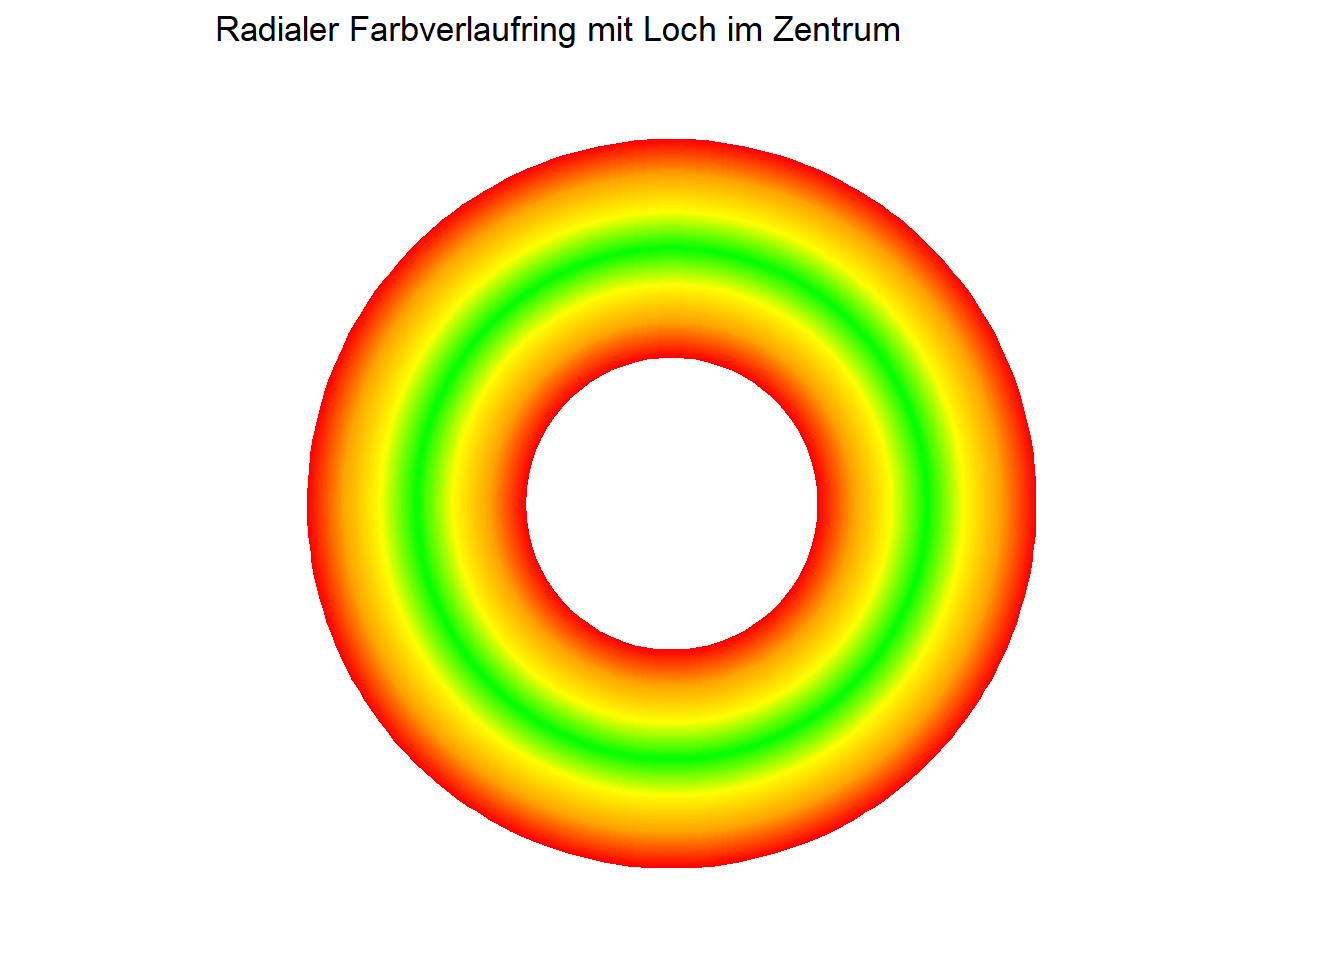
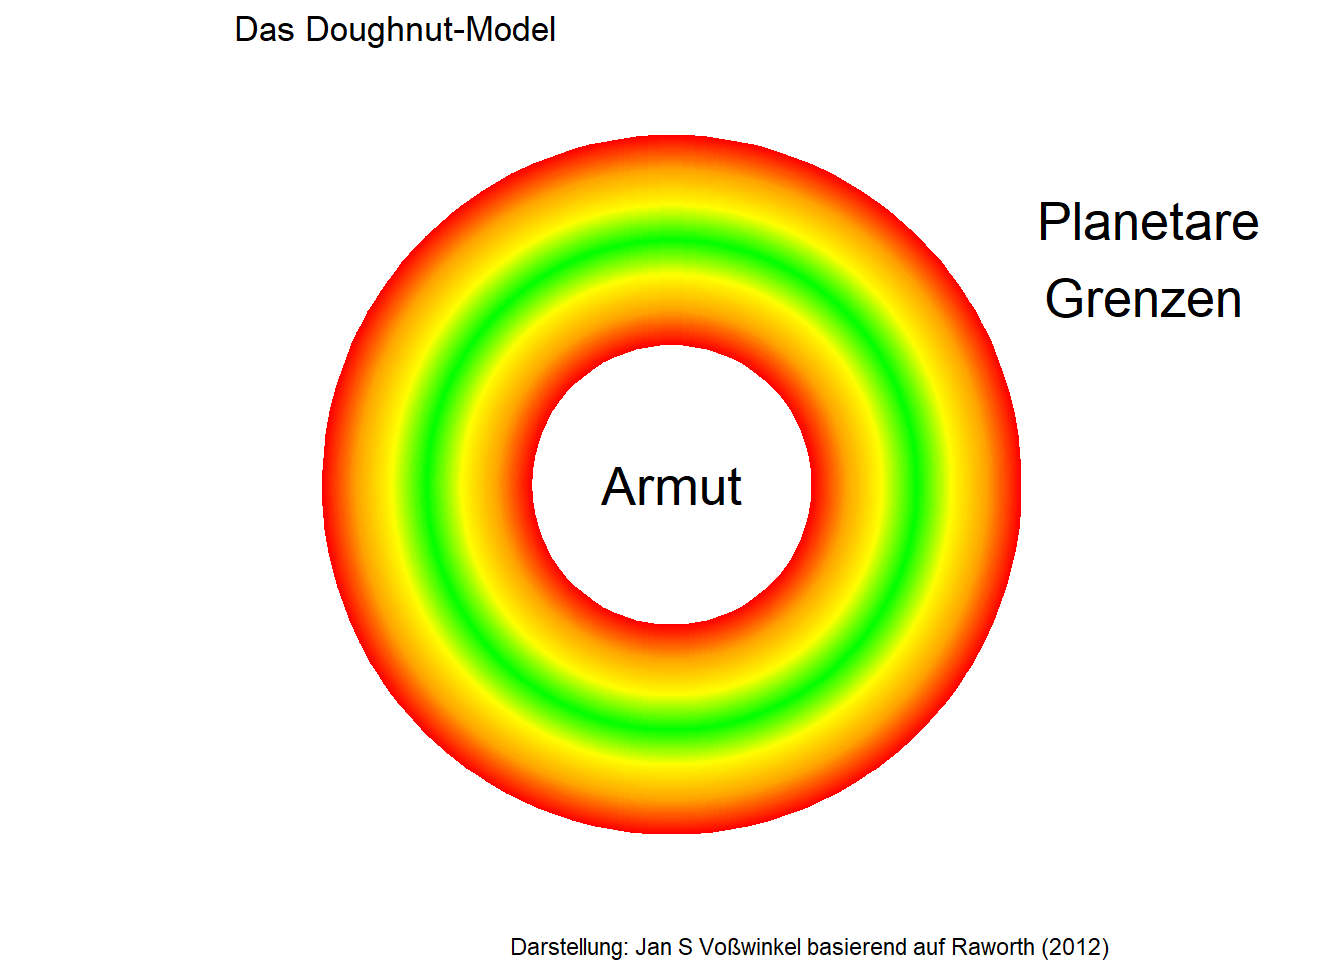
Effizienz

diff --git a/docs/donut.html b/docs/donut.html
@@ -7,7 +7,7 @@
 <meta name="viewport" content="width=device-width, initial-scale=1.0, user-scalable=yes">
 
 
-<title>3&nbsp; Das Donut-Modell – Effiziente Nutzung knapper Ressourcen</title>
+<title>3&nbsp; Das Doughnut-Modell – Effiziente Nutzung knapper Ressourcen</title>
 <style>
 code{white-space: pre-wrap;}
 span.smallcaps{font-variant: small-caps;}
@@ -117,7 +117,7 @@ pre > code.sourceCode > span > a:first-child::before { text-decoration: underlin
       <button type="button" class="quarto-btn-toggle btn" data-bs-toggle="collapse" role="button" data-bs-target=".quarto-sidebar-collapse-item" aria-controls="quarto-sidebar" aria-expanded="false" aria-label="Toggle sidebar navigation" onclick="if (window.quartoToggleHeadroom) { window.quartoToggleHeadroom(); }">
         <i class="bi bi-layout-text-sidebar-reverse"></i>
       </button>
-        <nav class="quarto-page-breadcrumbs" aria-label="breadcrumb"><ol class="breadcrumb"><li class="breadcrumb-item"><a href="./donut.html"><span class="chapter-number">3</span>&nbsp; <span class="chapter-title">Das Donut-Modell</span></a></li></ol></nav>
+        <nav class="quarto-page-breadcrumbs" aria-label="breadcrumb"><ol class="breadcrumb"><li class="breadcrumb-item"><a href="./donut.html"><span class="chapter-number">3</span>&nbsp; <span class="chapter-title">Das Doughnut-Modell</span></a></li></ol></nav>
         <a class="flex-grow-1" role="navigation" data-bs-toggle="collapse" data-bs-target=".quarto-sidebar-collapse-item" aria-controls="quarto-sidebar" aria-expanded="false" aria-label="Toggle sidebar navigation" onclick="if (window.quartoToggleHeadroom) { window.quartoToggleHeadroom(); }">      
         </a>
       <button type="button" class="btn quarto-search-button" aria-label="Search" onclick="window.quartoOpenSearch();">
@@ -166,7 +166,7 @@ pre > code.sourceCode > span > a:first-child::before { text-decoration: underlin
         <li class="sidebar-item">
   <div class="sidebar-item-container"> 
   <a href="./donut.html" class="sidebar-item-text sidebar-link active">
- <span class="menu-text"><span class="chapter-number">3</span>&nbsp; <span class="chapter-title">Das Donut-Modell</span></span></a>
+ <span class="menu-text"><span class="chapter-number">3</span>&nbsp; <span class="chapter-title">Das Doughnut-Modell</span></span></a>
   </div>
 </li>
         <li class="sidebar-item">
@@ -240,15 +240,23 @@ pre > code.sourceCode > span > a:first-child::before { text-decoration: underlin
 </nav>
 <div id="quarto-sidebar-glass" class="quarto-sidebar-collapse-item" data-bs-toggle="collapse" data-bs-target=".quarto-sidebar-collapse-item"></div>
 <!-- margin-sidebar -->
-    <div id="quarto-margin-sidebar" class="sidebar margin-sidebar zindex-bottom">
-        
+    <div id="quarto-margin-sidebar" class="sidebar margin-sidebar">
+        <nav id="TOC" role="doc-toc" class="toc-active">
+    <h2 id="toc-title">Überblick</h2>
+   
+  <ul>
+  <li><a href="#grundmodell" id="toc-grundmodell" class="nav-link active" data-scroll-target="#grundmodell"><span class="header-section-number">3.1</span> Grundmodell</a></li>
+  <li><a href="#entwicklung-in-der-zeit-statische-betrachtung" id="toc-entwicklung-in-der-zeit-statische-betrachtung" class="nav-link" data-scroll-target="#entwicklung-in-der-zeit-statische-betrachtung"><span class="header-section-number">3.2</span> Entwicklung in der Zeit: Statische Betrachtung</a></li>
+  <li><a href="#entwickung-in-der-zeit-dynamischer-doughnut" id="toc-entwickung-in-der-zeit-dynamischer-doughnut" class="nav-link" data-scroll-target="#entwickung-in-der-zeit-dynamischer-doughnut"><span class="header-section-number">3.3</span> Entwickung in der Zeit: Dynamischer Doughnut</a></li>
+  </ul>
+</nav>
     </div>
 <!-- main -->
 <main class="content" id="quarto-document-content">
 
 <header id="title-block-header" class="quarto-title-block default">
 <div class="quarto-title">
-<h1 class="title"><span class="chapter-number">3</span>&nbsp; <span class="chapter-title">Das Donut-Modell</span></h1>
+<h1 class="title"><span class="chapter-number">3</span>&nbsp; <span class="chapter-title">Das Doughnut-Modell</span></h1>
 </div>
 
 
@@ -265,6 +273,8 @@ pre > code.sourceCode > span > a:first-child::before { text-decoration: underlin
 </header>
 
 
+<section id="grundmodell" class="level2" data-number="3.1">
+<h2 data-number="3.1" class="anchored" data-anchor-id="grundmodell"><span class="header-section-number">3.1</span> Grundmodell</h2>
 <div class="cell">
 <details class="code-fold">
 <summary>Code</summary>
@@ -294,19 +304,26 @@ pre > code.sourceCode > span > a:first-child::before { text-decoration: underlin
 <span id="cb1-24"><a href="#cb1-24" aria-hidden="true" tabindex="-1"></a>    <span class="at">ymin =</span> ymin, <span class="at">ymax =</span> ymax</span>
 <span id="cb1-25"><a href="#cb1-25" aria-hidden="true" tabindex="-1"></a>  ), <span class="at">color =</span> <span class="cn">NA</span>) <span class="sc">+</span></span>
 <span id="cb1-26"><a href="#cb1-26" aria-hidden="true" tabindex="-1"></a>  <span class="fu">scale_fill_identity</span>() <span class="sc">+</span></span>
-<span id="cb1-27"><a href="#cb1-27" aria-hidden="true" tabindex="-1"></a>  <span class="fu">coord_polar</span>(<span class="at">theta =</span> <span class="st">"y"</span>) <span class="sc">+</span></span>
+<span id="cb1-27"><a href="#cb1-27" aria-hidden="true" tabindex="-1"></a>  <span class="fu">coord_polar</span>(<span class="at">theta =</span> <span class="st">"y"</span>, <span class="at">clip=</span><span class="st">"off"</span> ) <span class="sc">+</span></span>
 <span id="cb1-28"><a href="#cb1-28" aria-hidden="true" tabindex="-1"></a>  <span class="fu">xlim</span>(<span class="fu">c</span>(<span class="fl">2.8</span>, <span class="fl">3.3</span>)) <span class="sc">+</span> <span class="co"># mit oder ohne Loch?</span></span>
 <span id="cb1-29"><a href="#cb1-29" aria-hidden="true" tabindex="-1"></a>  <span class="fu">theme_void</span>() <span class="sc">+</span></span>
-<span id="cb1-30"><a href="#cb1-30" aria-hidden="true" tabindex="-1"></a>  <span class="fu">labs</span>(<span class="at">title =</span> <span class="st">"Radialer Farbverlaufring mit Loch im Zentrum"</span>)</span></code><button title="Copy to Clipboard" class="code-copy-button"><i class="bi"></i></button></pre></div>
+<span id="cb1-30"><a href="#cb1-30" aria-hidden="true" tabindex="-1"></a>  <span class="fu">labs</span>(<span class="at">title =</span> <span class="st">"Das Doughnut-Model"</span>,</span>
+<span id="cb1-31"><a href="#cb1-31" aria-hidden="true" tabindex="-1"></a>       <span class="at">caption=</span> <span class="st">"Darstellung: Jan S Voßwinkel basierend auf Raworth (2012)"</span>) <span class="sc">+</span></span>
+<span id="cb1-32"><a href="#cb1-32" aria-hidden="true" tabindex="-1"></a>  <span class="fu">annotate</span>(<span class="st">"text"</span>, <span class="at">x =</span> <span class="fl">2.8</span>, <span class="at">y =</span> <span class="fl">0.5</span>, <span class="at">label =</span> <span class="st">"Armut"</span>, <span class="at">size =</span> <span class="dv">7</span>) <span class="sc">+</span> <span class="co"># Added text annotation</span></span>
+<span id="cb1-33"><a href="#cb1-33" aria-hidden="true" tabindex="-1"></a>  <span class="fu">annotate</span>(<span class="st">"text"</span>, <span class="at">x =</span> <span class="fl">3.2</span>, <span class="at">y =</span> <span class="fl">0.1</span>, <span class="at">label =</span> <span class="st">"Planetare</span><span class="sc">\n</span><span class="st"> Grenzen"</span>, <span class="at">size =</span> <span class="dv">7</span>, <span class="at">hjust =</span> <span class="sc">-</span>.<span class="dv">9</span>) <span class="co"># Adjusted text annotation position and</span></span></code><button title="Copy to Clipboard" class="code-copy-button"><i class="bi"></i></button></pre></div>
 </details>
 <div class="cell-output-display">
-<div>
+<div class="quarto-figure quarto-figure-center">
 <figure class="figure">
-<p><img src="donut_files/figure-html/unnamed-chunk-1-1.png" class="img-fluid figure-img" width="672"></p>
+<p><a href="Doughnut"><img src="donut_files/figure-html/unnamed-chunk-1-1.png" class="img-fluid figure-img" width="672"></a></p>
+<figcaption>Der Doughnut</figcaption>
 </figure>
 </div>
 </div>
 </div>
+</section>
+<section id="entwicklung-in-der-zeit-statische-betrachtung" class="level2" data-number="3.2">
+<h2 data-number="3.2" class="anchored" data-anchor-id="entwicklung-in-der-zeit-statische-betrachtung"><span class="header-section-number">3.2</span> Entwicklung in der Zeit: Statische Betrachtung</h2>
 <div class="cell">
 <details class="code-fold">
 <summary>Code</summary>
@@ -364,13 +381,17 @@ pre > code.sourceCode > span > a:first-child::before { text-decoration: underlin
 <span id="cb2-52"><a href="#cb2-52" aria-hidden="true" tabindex="-1"></a>  )</span></code><button title="Copy to Clipboard" class="code-copy-button"><i class="bi"></i></button></pre></div>
 </details>
 <div class="cell-output-display">
-<div>
+<div class="quarto-figure quarto-figure-center">
 <figure class="figure">
 <p><img src="donut_files/figure-html/unnamed-chunk-2-1.png" class="img-fluid figure-img" width="672"></p>
+<figcaption>Entwicklung im statischen Doughnut</figcaption>
 </figure>
 </div>
 </div>
 </div>
+</section>
+<section id="entwickung-in-der-zeit-dynamischer-doughnut" class="level2" data-number="3.3">
+<h2 data-number="3.3" class="anchored" data-anchor-id="entwickung-in-der-zeit-dynamischer-doughnut"><span class="header-section-number">3.3</span> Entwickung in der Zeit: Dynamischer Doughnut</h2>
 <div class="cell">
 <details class="code-fold">
 <summary>Code</summary>
@@ -448,6 +469,7 @@ pre > code.sourceCode > span > a:first-child::before { text-decoration: underlin
 </div>
 
 
+</section>
 
 </main> <!-- /main -->
 <script id="quarto-html-after-body" type="application/javascript">
